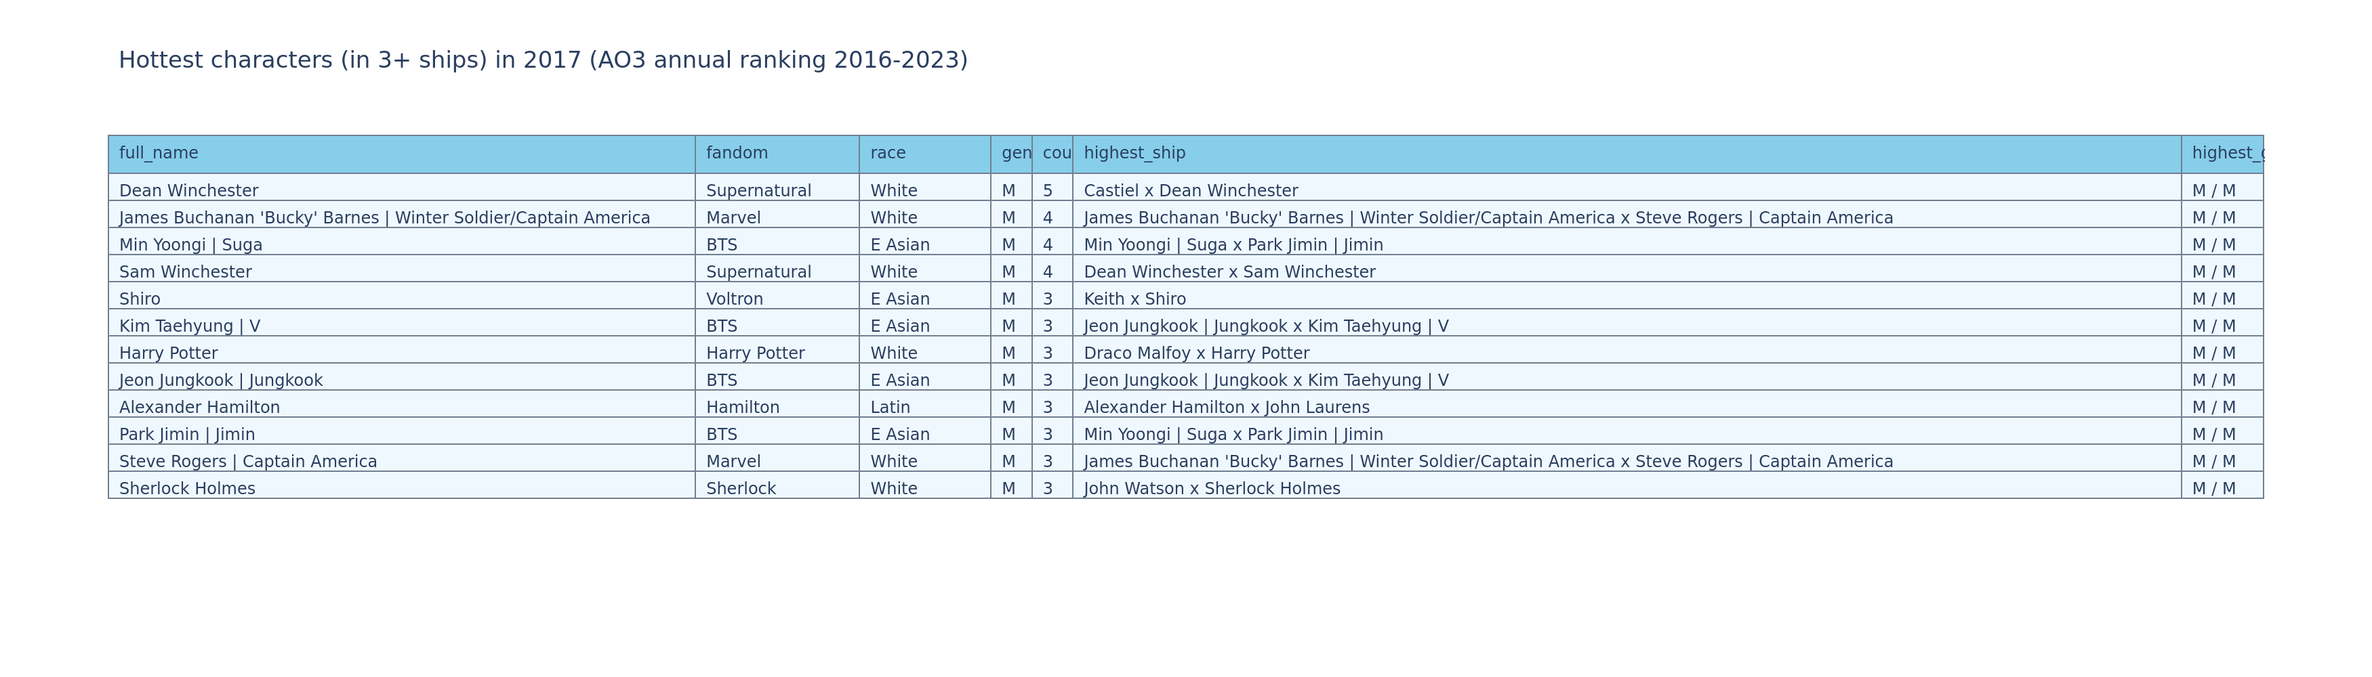
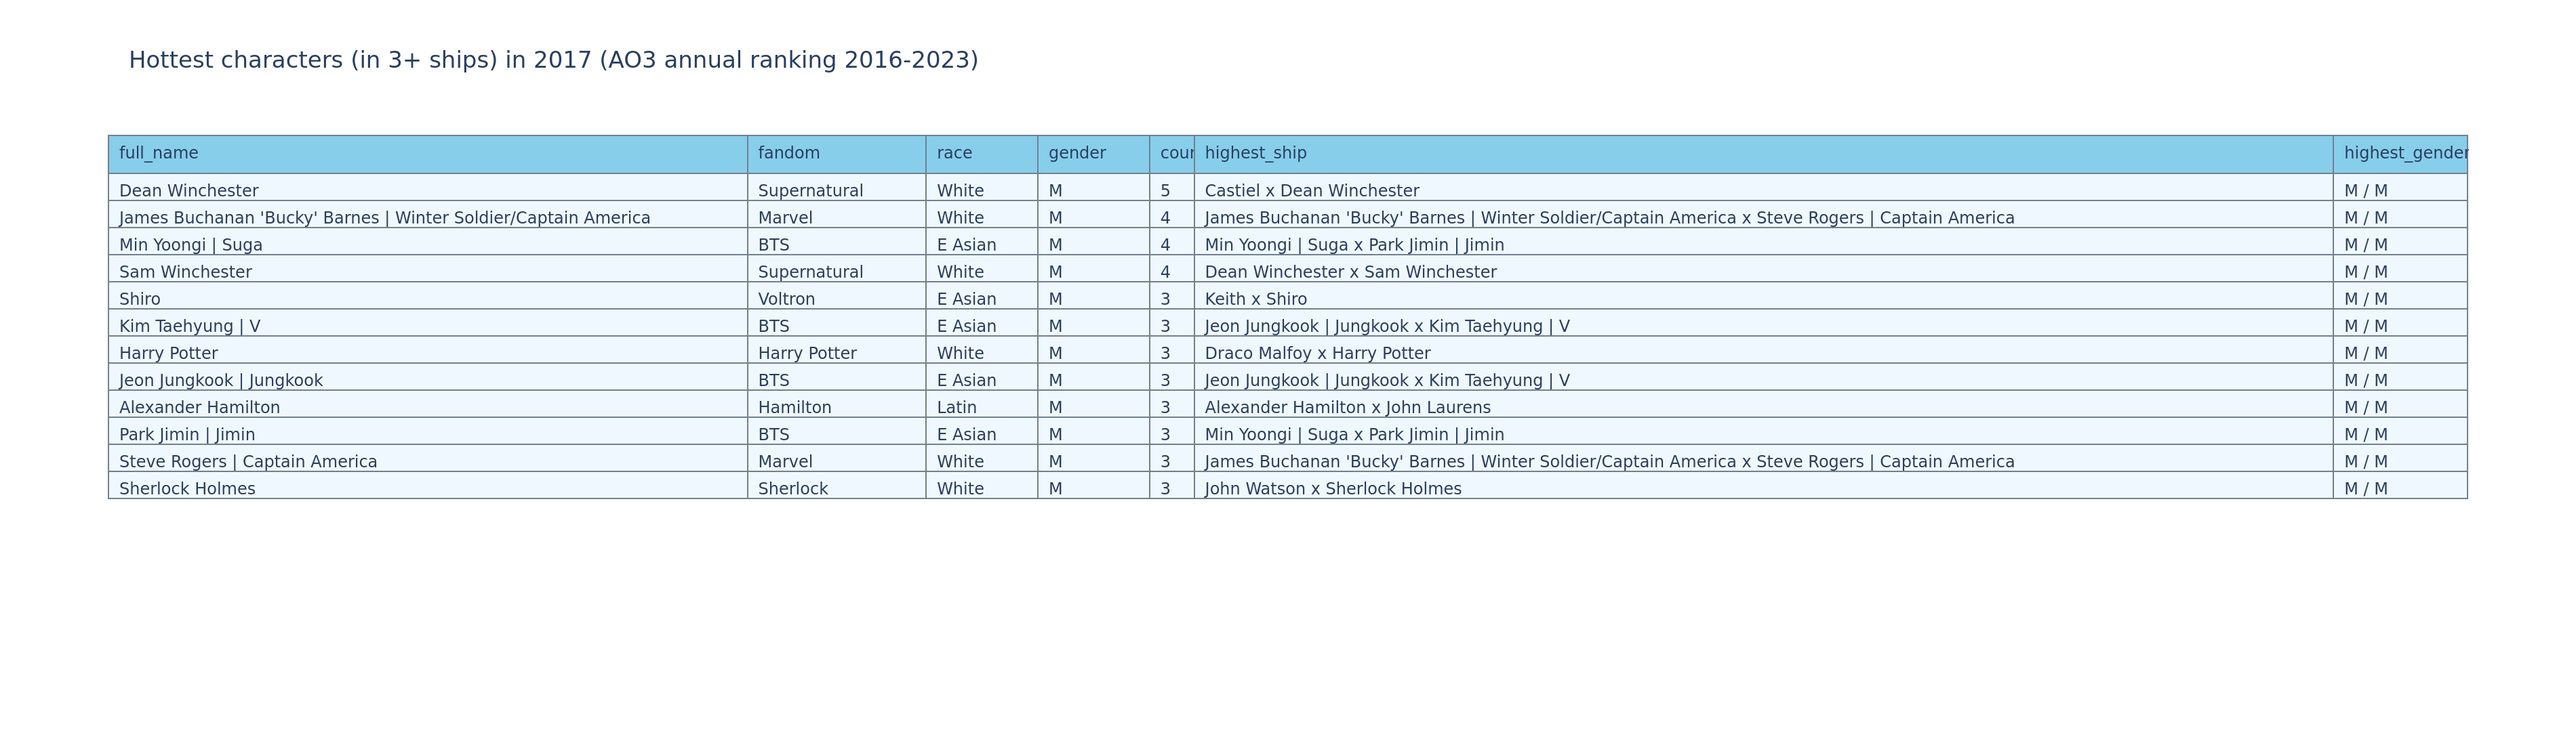
fix spacing issues in annual hottest chars

Changed region(s): [[0.0311, 0.155, 0.9654, 0.744], [0.0311, 0.062, 0.4049, 0.124]]

diff --git a/visualisation/diagram_code/visualise_tables.py b/visualisation/diagram_code/visualise_tables.py
@@ -133,9 +133,14 @@ def visualise_hottest_chars(input_dict:dict, ranking:str):
         height = 350
     elif ranking in ["overall","annual"]:
         colours = colour_palettes.blue_table
-        column_width = [1.43,0.4,0.32,0.1,0.1,2.7,0.2]
-        width = 1750
-        height = 500
+        if ranking == "overall":
+            column_width = [1.43,0.4,0.32,0.1,0.1,2.7,0.2]
+            width = 1750
+            height = 500
+        elif ranking == "annual":
+            column_width = [1.43,0.4,0.25,0.25,0.1,2.55,0.3]
+            width = 1900
+            height = 550
 
     line_colour = colours["lines"] # colour of lines
     header_fill_colour = colours["header"] # colour of header row
